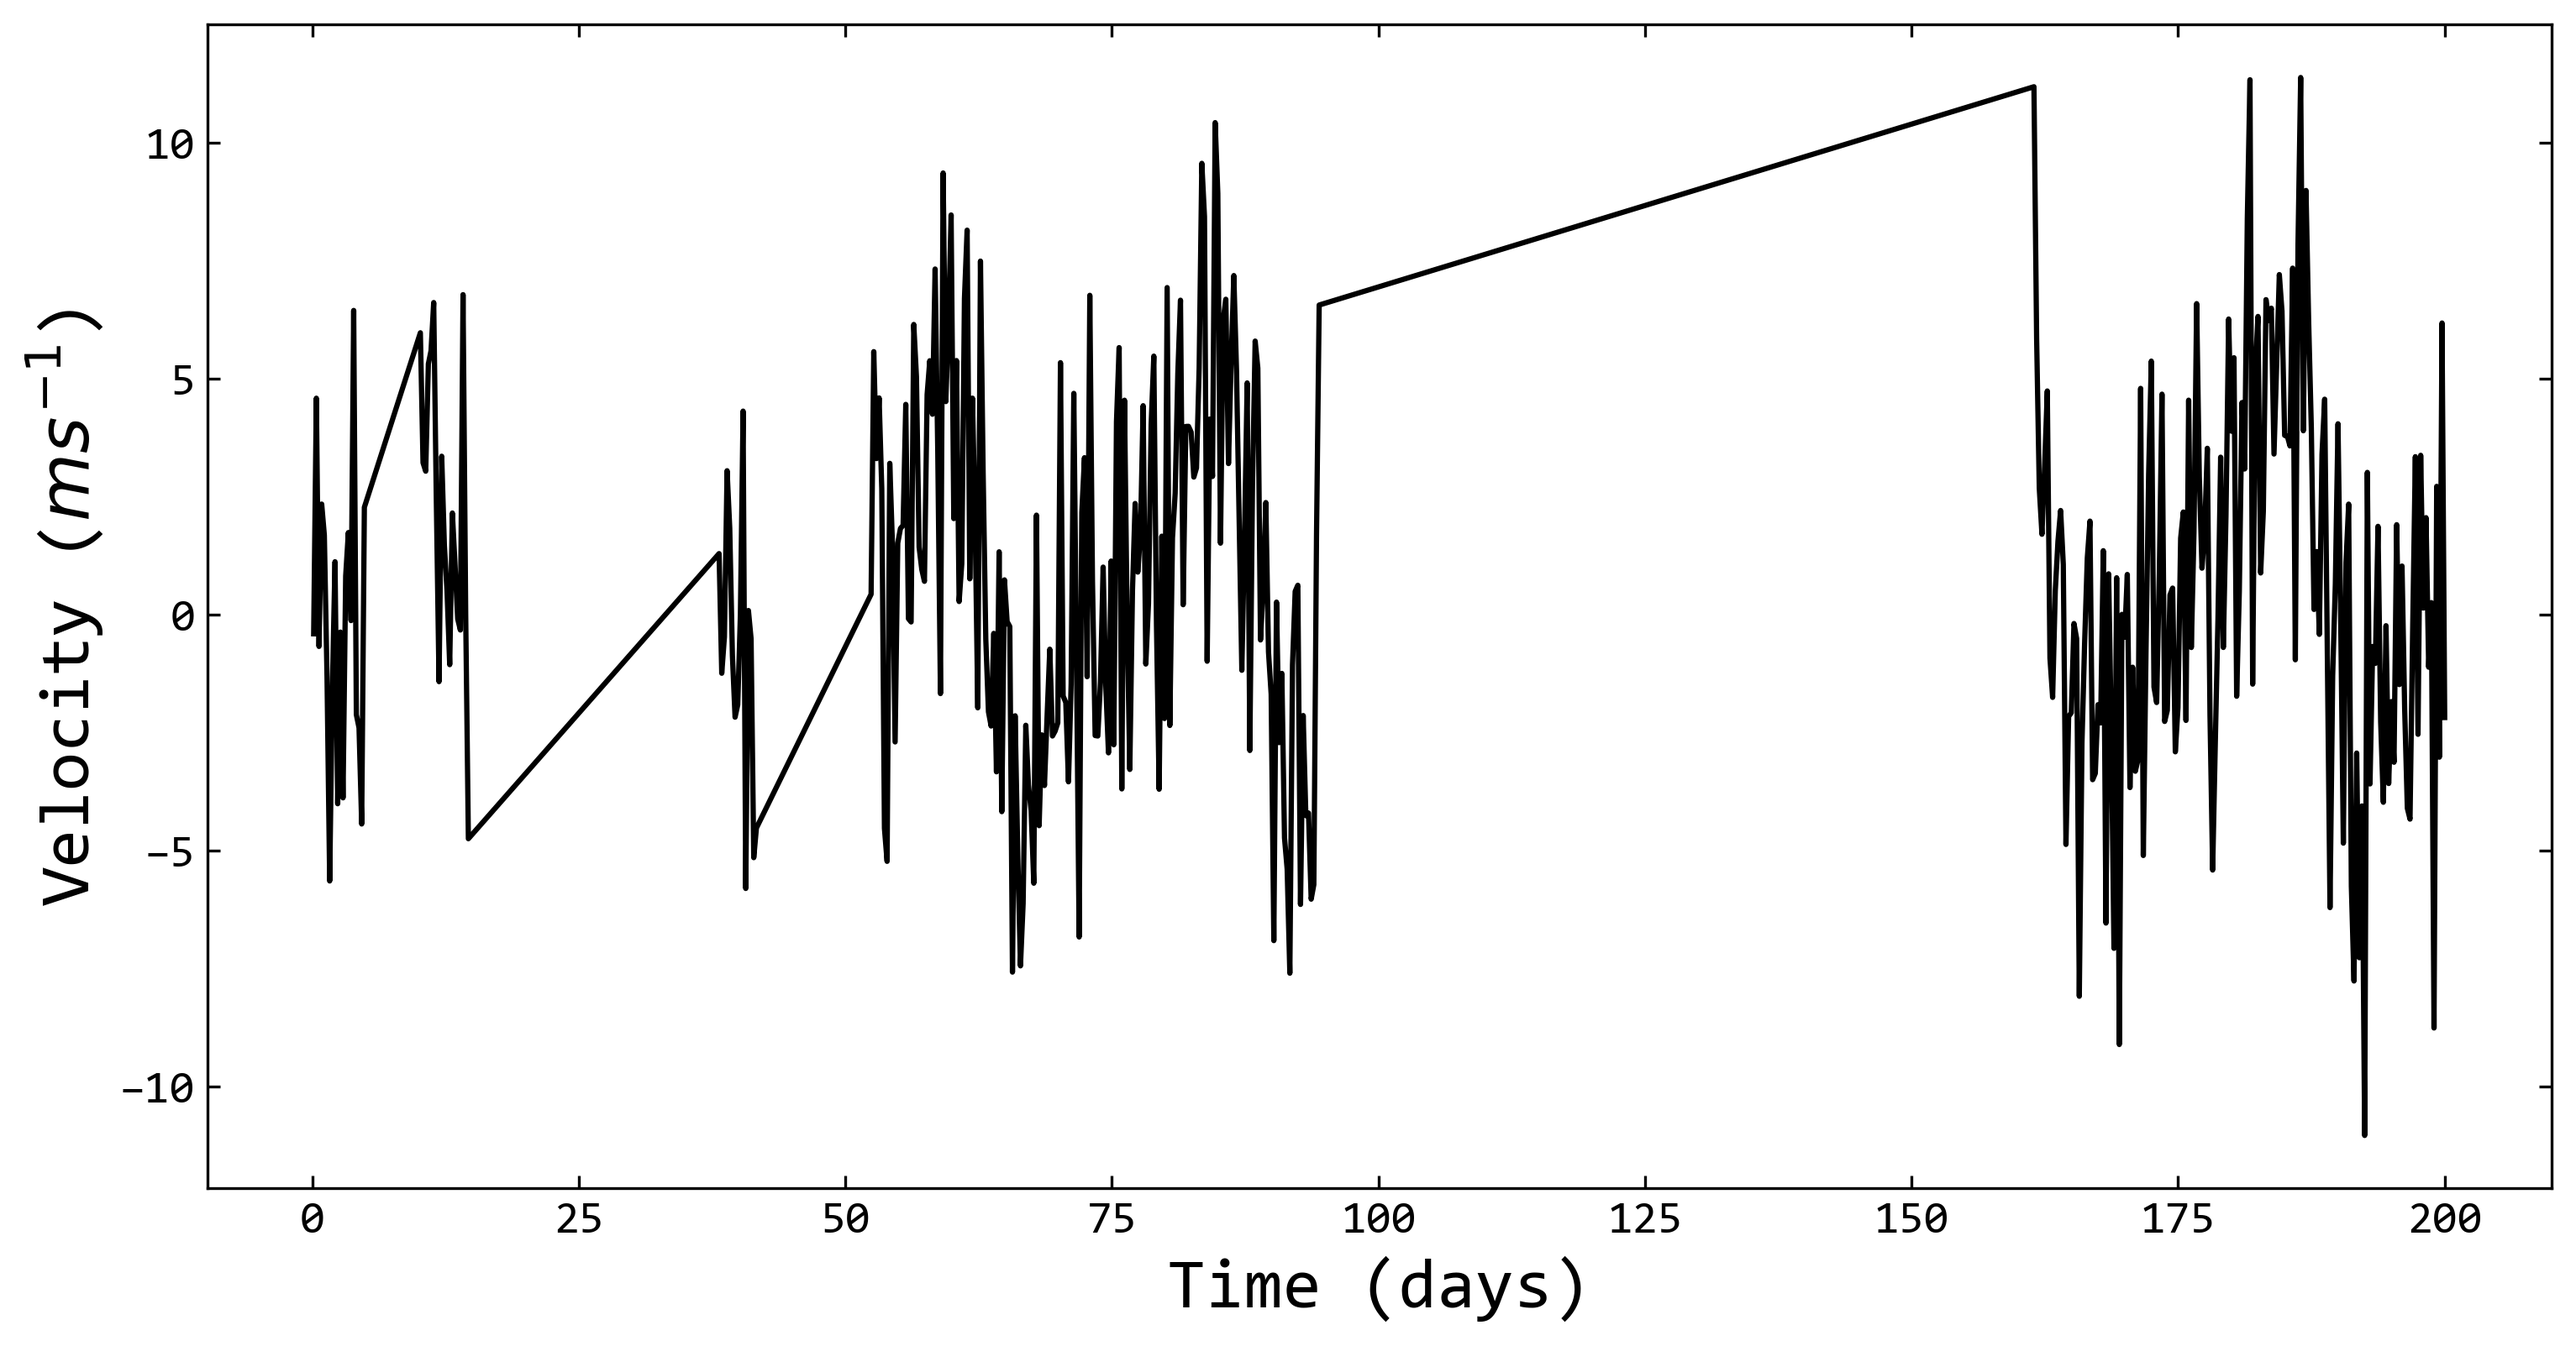
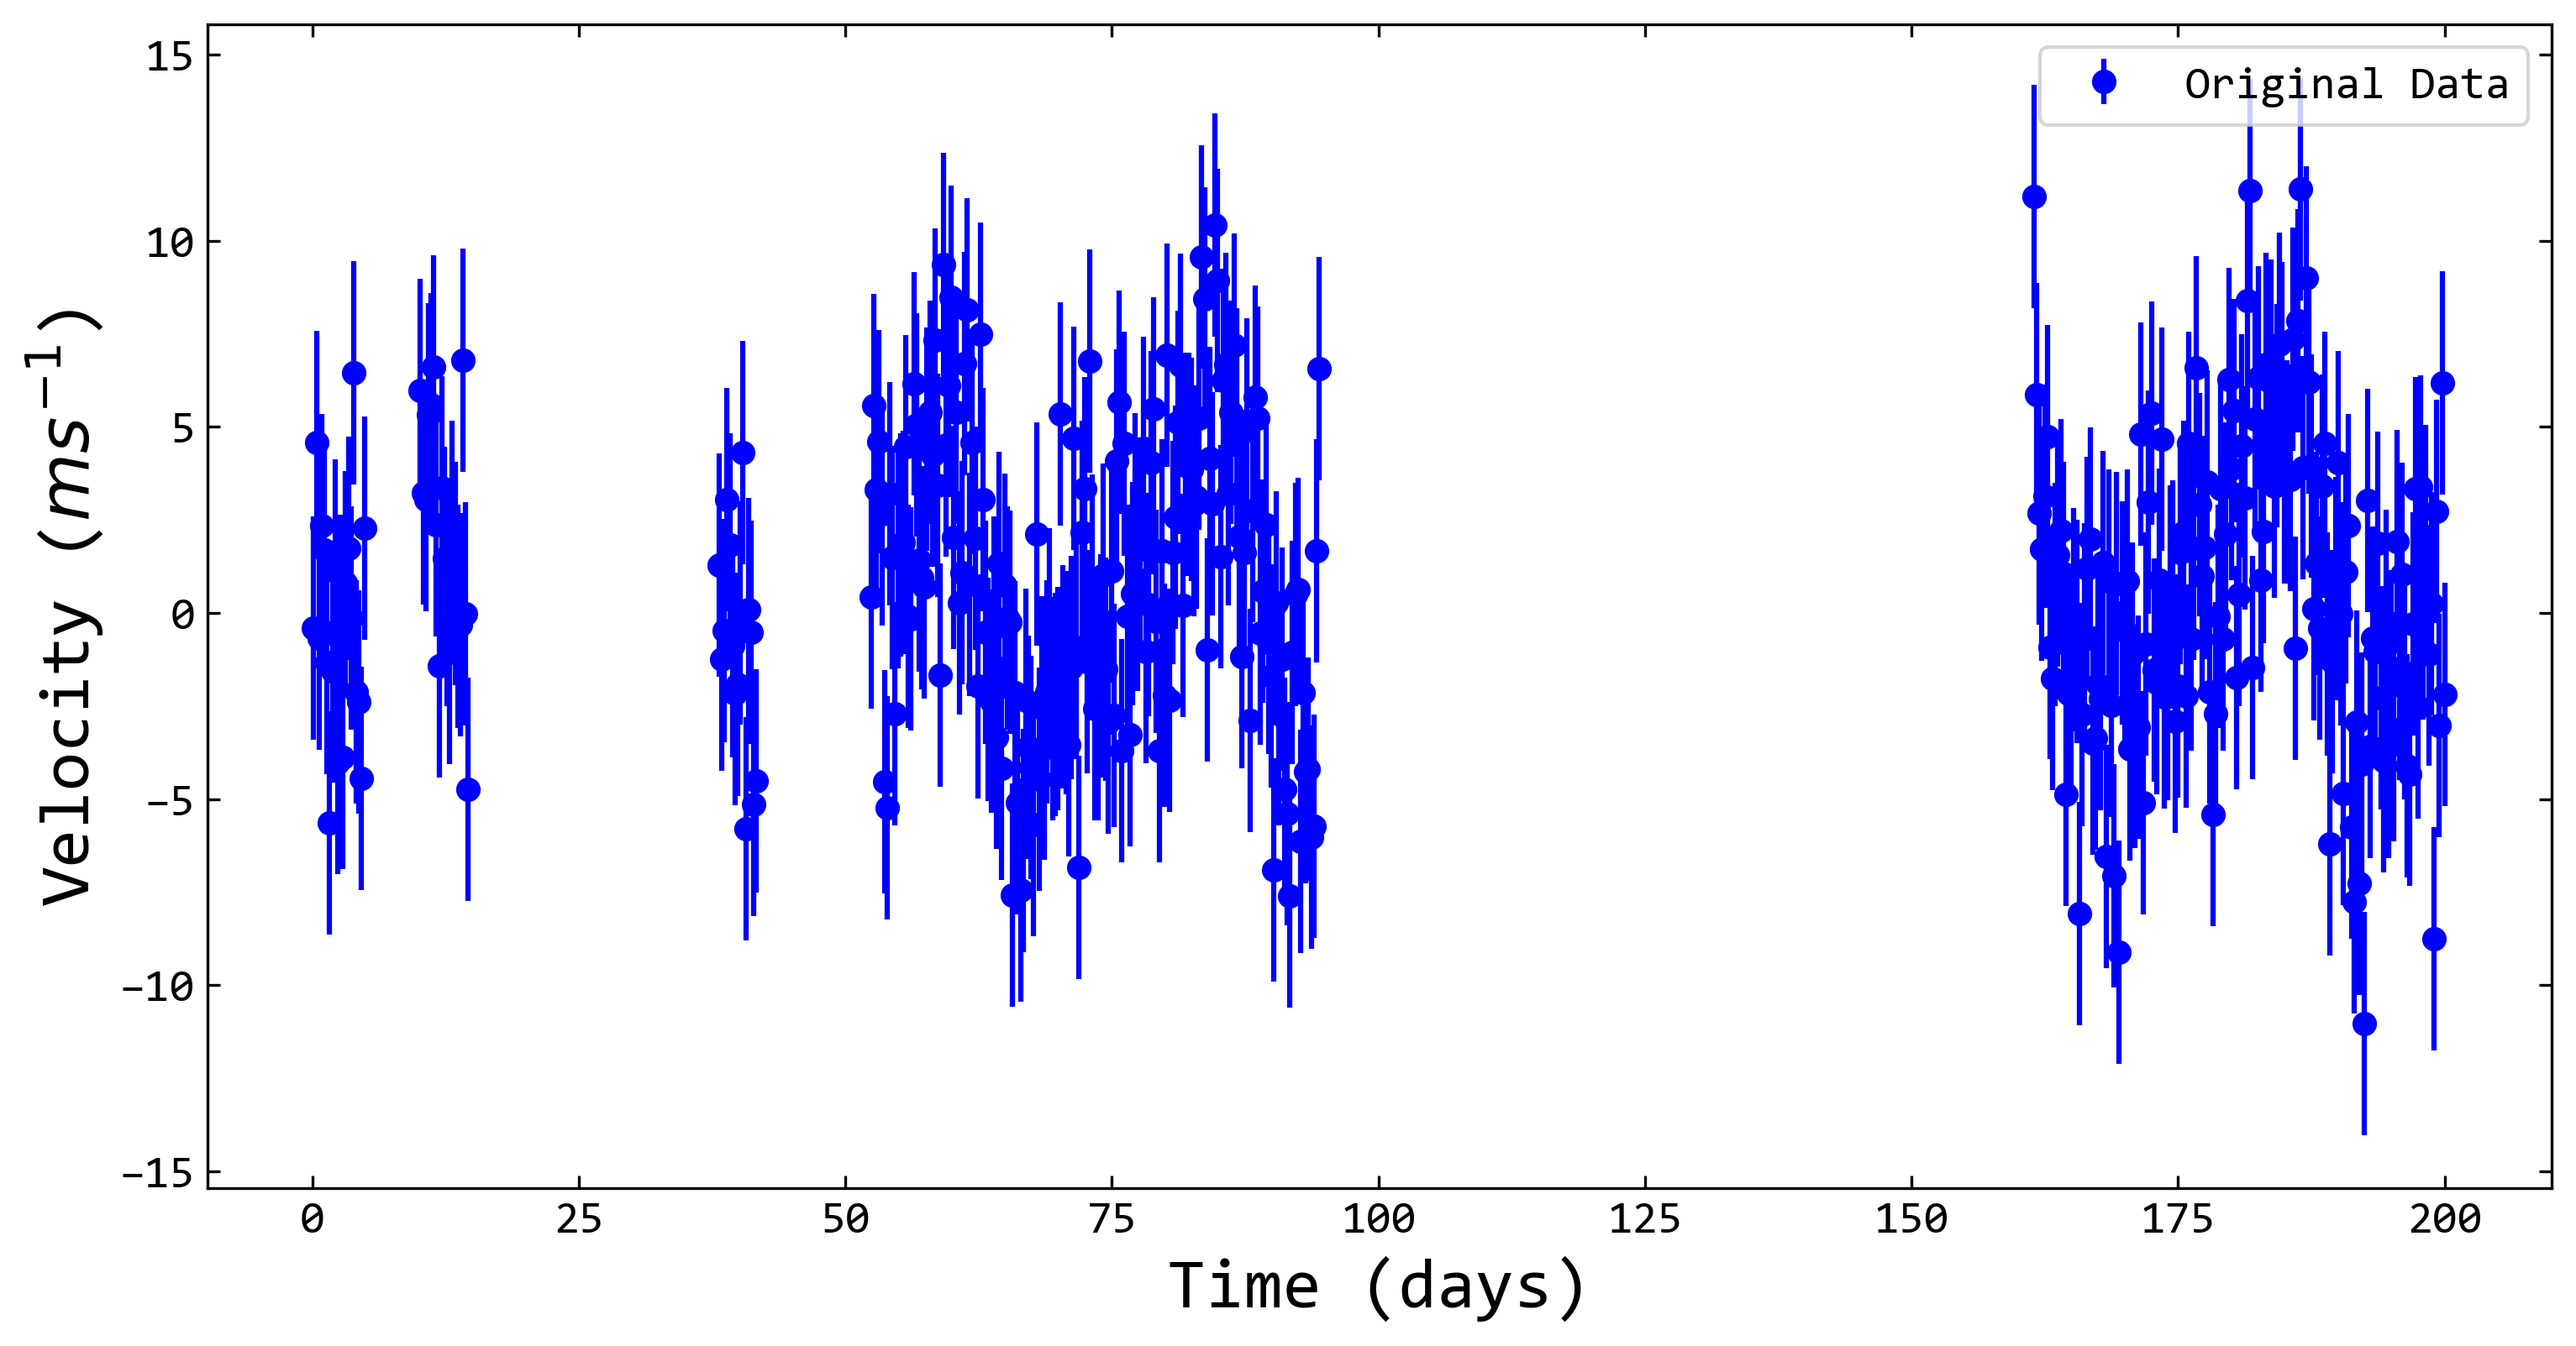
improving plotting

diff --git a/PHY4005/q7.py b/PHY4005/q7.py
@@ -42,6 +42,66 @@ data_periods = {
     'Watsons_star_RVs': 24.87
 }
 
+def my_uncertainties_plot(
+        x,
+        y,
+        y_uncertainties,
+        x_label,
+        y_label,
+        label,
+        filename=None
+):
+    fig, ax = plt.subplots(figsize=(12, 6))
+
+    ax.errorbar(
+        x,
+        y,
+        yerr=y_uncertainties,
+        label=label,
+        fmt='o',
+        color='blue'
+    )
+
+    ax.set_xlabel(
+        x_label,
+        fontsize=20
+    )
+    ax.set_ylabel(
+        y_label,
+        fontsize=20
+    )
+    ax.tick_params(
+        axis='x',
+        labelsize=13,
+        rotation=0,
+        direction='in',
+        top=True,
+        labelbottom=True
+    )
+    ax.tick_params(
+        axis='y',
+        labelsize=13,
+        which='both',
+        direction='in',
+        right=True,
+        labelbottom=True
+    )
+
+    ax.legend()
+
+    if filename:
+        plt.savefig(
+            filename,
+            dpi=300,
+            bbox_inches='tight'
+        )
+
+        plt.show()
+
+    else:
+        return ax
+
+
 def my_plot(x, y, x_label, y_label, filename):
 
     fig, ax = plt.subplots(figsize=(12, 6))
@@ -88,11 +148,13 @@ def sinusoidal(t, A, f, phi, c):
 
 for data in data_files:
 
-    my_plot(
+    ax = my_uncertainties_plot(
         Observing_times,
         data_files[data],
+        data_uncertainties[data],
         "Time (days)",
         "Velocity ($ms^{-1}$)",
+        'Original Data',
         f'PHY4005/plots/{data}.png'
     )
 
@@ -133,8 +195,6 @@ for data in data_files:
         f'PHY4005/plots/{data}_GLS.png'
     )
 
-
-
     # Using periods obtained from periodograms
     period = data_periods[data]
 
@@ -158,45 +218,20 @@ for data in data_files:
     )
 
     # Plot the original data and the fitted sinusoidal curve
-    fig, ax = plt.subplots(figsize=(12, 6))
-    ax.errorbar(
+    ax = my_uncertainties_plot(
         Observing_times,
         data_files[data],
-        yerr=data_uncertainties[data],
-        fmt='o',
-        label='Original Data',
-        color='blue'
+        data_uncertainties[data],
+        'Time',
+        'Radial Velocity',
+        'Original Data'
     )
+    
     ax.plot(
         Observing_times,
         sinusoidal(Observing_times, *popt),
         label='Fitted Curve',
         color='red'
-    )
-
-    ax.set_xlabel(
-        'Time',
-        fontsize=20
-    )
-    ax.set_ylabel(
-        'Radial Velocity',
-        fontsize=20
-    )
-    ax.tick_params(
-        axis='x',
-        labelsize=13,
-        rotation=0,
-        direction='in',
-        top=True,
-        labelbottom=True
-    )
-    ax.tick_params(
-        axis='y',
-        labelsize=13,
-        which='both',
-        direction='in',
-        right=True,
-        labelbottom=True
     )
 
     ax.legend()
@@ -225,15 +260,25 @@ for data in data_files:
     data_sorted = data_files[data][sorted_indices]
 
     # Plot the phase-folded data points
-    plt.figure(figsize=(10, 5))
-    plt.errorbar(phase_sorted, data_sorted, yerr=data_uncertainties[data][sorted_indices], fmt='o', label='Phase-folded Data Points', color='blue')
+
+    ax = my_uncertainties_plot(
+        phase_sorted,
+        data_sorted,
+        data_uncertainties[data][sorted_indices],
+        'Phase',
+        'Radial Velocity',
+        'Phase-folded Data Points'
+    )
 
     # Plot the best-fitting model over the phase-folded data
-    plt.plot(phase_sorted, sinusoidal(Observing_times[sorted_indices], *popt), label='Best-fitting Model', color='red')
+    ax.plot(phase_sorted, sinusoidal(Observing_times[sorted_indices], *popt), label='Best-fitting Model', color='red')
 
-    plt.xlabel('Phase')
-    plt.ylabel('Radial Velocity')
-    plt.title('Phase-folded Data and Best-fitting Model')
-    plt.legend()
-    plt.grid(True)
+    ax.legend()
+
+    plt.savefig(
+        f'PHY4005/plots/{data}_phase-folded.png',
+        dpi=300,
+        bbox_inches='tight'
+    )
+
     plt.show()
